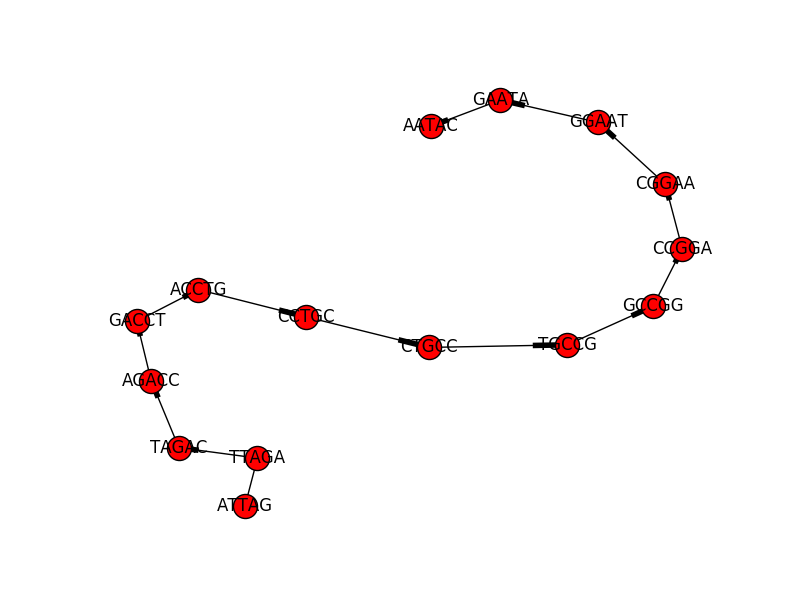
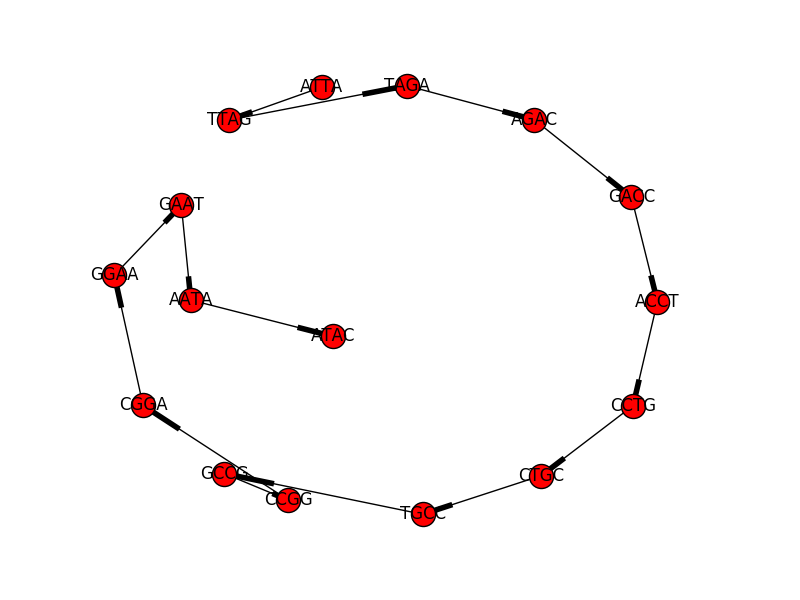
update: k in kmer must be odd

diff --git a/de_novo_assembly/eulerian.py b/de_novo_assembly/eulerian.py
@@ -79,7 +79,6 @@ def eulerian_random_walk(DBG):
     :return: dictionary containing a list of edges that represents the
     assembly of the genome, each is a contig
     """
-
     assembly = []
     for subg in DBG.subgraphs:
         # nx eulerian assumes strong connection for directed graph

diff --git a/Readme.md b/Readme.md
@@ -18,20 +18,20 @@ matplotlib == 1.5.3
 ###How to run the code
 To run the dummy_data.fasta:  
 ```
-python ./de_novo_assembly/run.py -i ./data/dummy_data.fasta -k 6 -o ./output/dummy_data_assembly_output.txt --print_to_console
+python ./de_novo_assembly/run.py -i ./data/dummy_data.fasta -k 5 -o ./output/dummy_data_assembly_output.txt --print_to_console
 ```
 
 To include a graph, simply add the option as '--graph':  
 ```
-python ./de_novo_assembly/run.py -i ./data/dummy_data.fasta -k 6 -o ./output/dummy_data_assembly_output.txt --print_to_console --graph
+python ./de_novo_assembly/run.py -i ./data/dummy_data.fasta -k 5 -o ./output/dummy_data_assembly_output.txt --print_to_console --graph
 ```
 
 To run the 50 fasta record set:  
 ```
-python ./de_novo_assembly/run.py -i ./data/coding_challenge_data_set.fasta -k 20 -o ./output/test_data_assembly_output.txt
+python ./de_novo_assembly/run.py -i ./data/coding_challenge_data_set.fasta -k 21 -o ./output/test_data_assembly_output.txt
 ```
 
-The k is set to 6 for the dummy dataset (works when 4<=k<=9), and 20 for the 50 fasta record dataset for stable result. The graph plotting feature is very primitive and may not work well for large De Bruijn Graph visualization. A sample plot for the dummy data of 4 fasta records can be found here for a 15 node 5mer De Bruijn Graph for a total 19 bp assembly.
+The k is set to 5 for the dummy dataset (works when 4<k<=9), and 20 for the 50 fasta record dataset for stable result. The graph plotting feature is very primitive and may not work well for large De Bruijn Graph visualization. A sample plot for the dummy data of 4 fasta records can be found here for a 15 node 5mer De Bruijn Graph for a total 19 bp assembly.
 
 ![Image of dummy dataset DBG](https://github.com/guojingyu/DeNovoAssembly/blob/master/dummy_data_de_bruijn.png)
 

diff --git a/docs/Description.md b/docs/Description.md
@@ -9,9 +9,9 @@ The DBG method avoided (to some extent) overcollapsed repeats problem that might
 ###Results
  For the dummy_data.fasta file, a 19 bp long DNA assembly can be found with a k > 5, as __ATTAGACCTGCCGGAATAC__, which is the same as reference answer.
 
-For the provided 50 fasta sample file, when k is set to 12-15, the output assembled DNA sequence has closely ranged around 20000 bp long but not unique. When the k is set to larger than 20, it would be stablized to a sequence of __19914__ bp long.
+For the provided 50 fasta sample file, when k is set to 13-15, the output assembled DNA sequence has closely ranged around 20000 bp long but not unique. When the k is set to larger than 21, it would be stablized to a sequence of __19914__ bp long.
 
-It is also noticeable, for the provided 50 fasta sample file, that the running time increased when k is getting larger. This holds true at least when k is still relatively small (20-30) than the ~1000 length of the fasta records. It may take ~2 minute to finish if k = 20, and similarly or slightly longer to finish at 30 (single threaded on a normal laptop with a 2-year-old i7 processor).
+It is also noticeable, for the provided 50 fasta sample file, that the running time increased when k is getting larger. This holds true at least when k is still relatively small (21-30) than the ~1000 length of the fasta records. It may take ~2 minute to finish if k = 21, and similarly or slightly longer to finish at 30 (single threaded on a normal laptop with a 2-year-old i7 processor).
 
 ###Some Assumptions
 1. The sequences are DNA (ATCG bases) "perfect" sequences; No ambiguous base reads.
